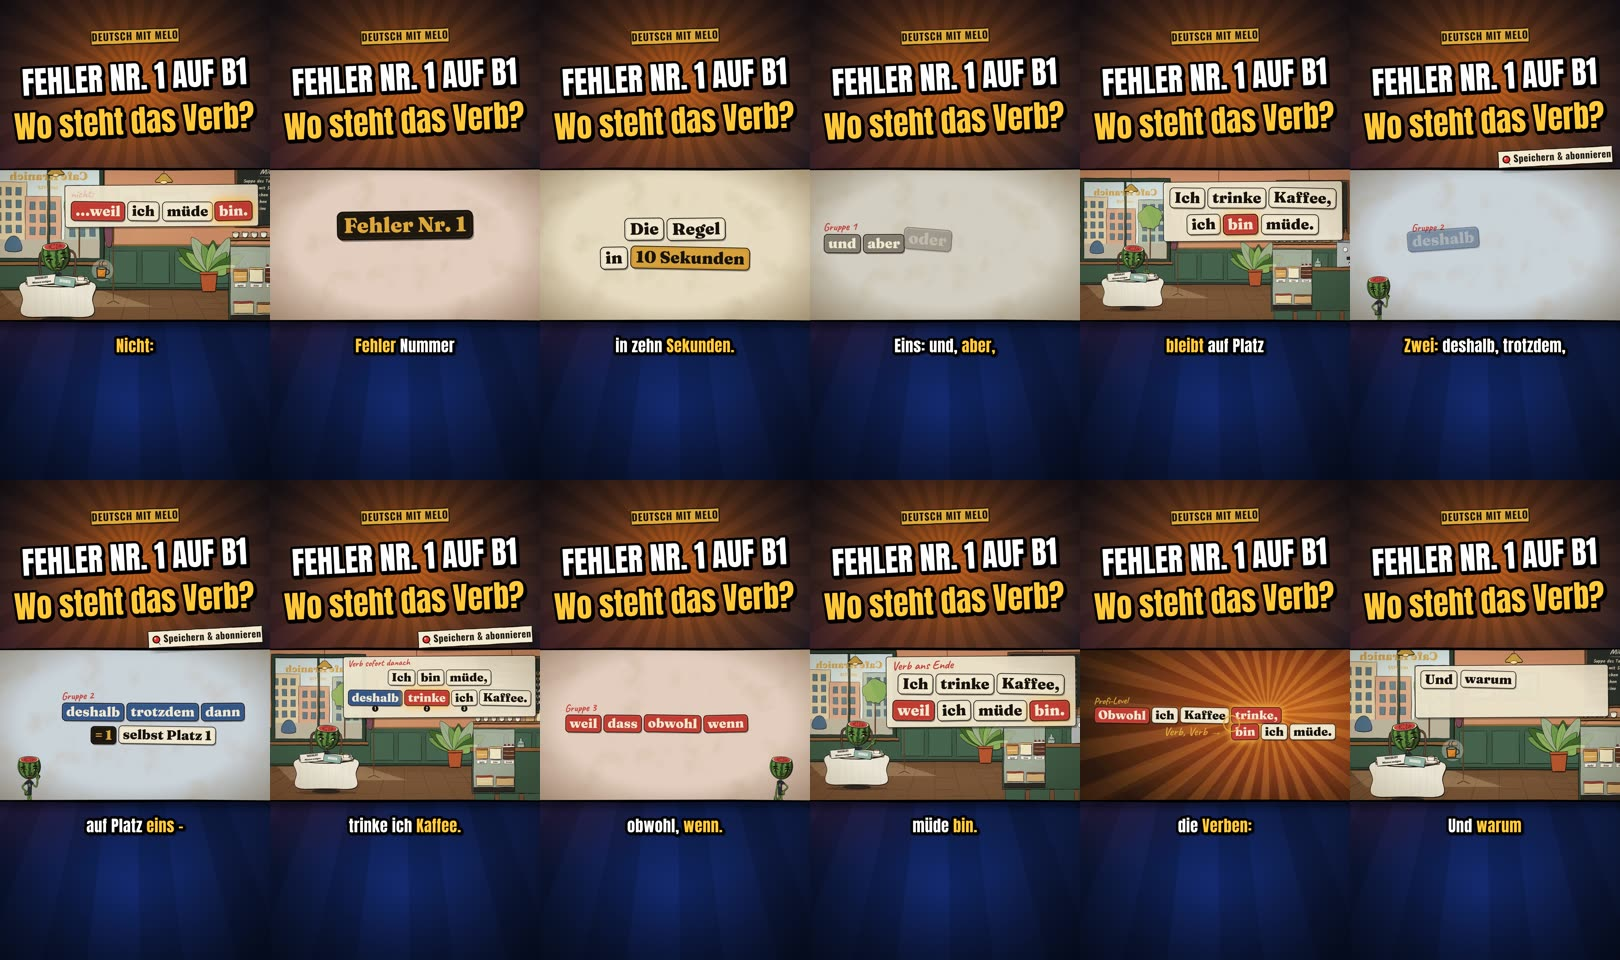
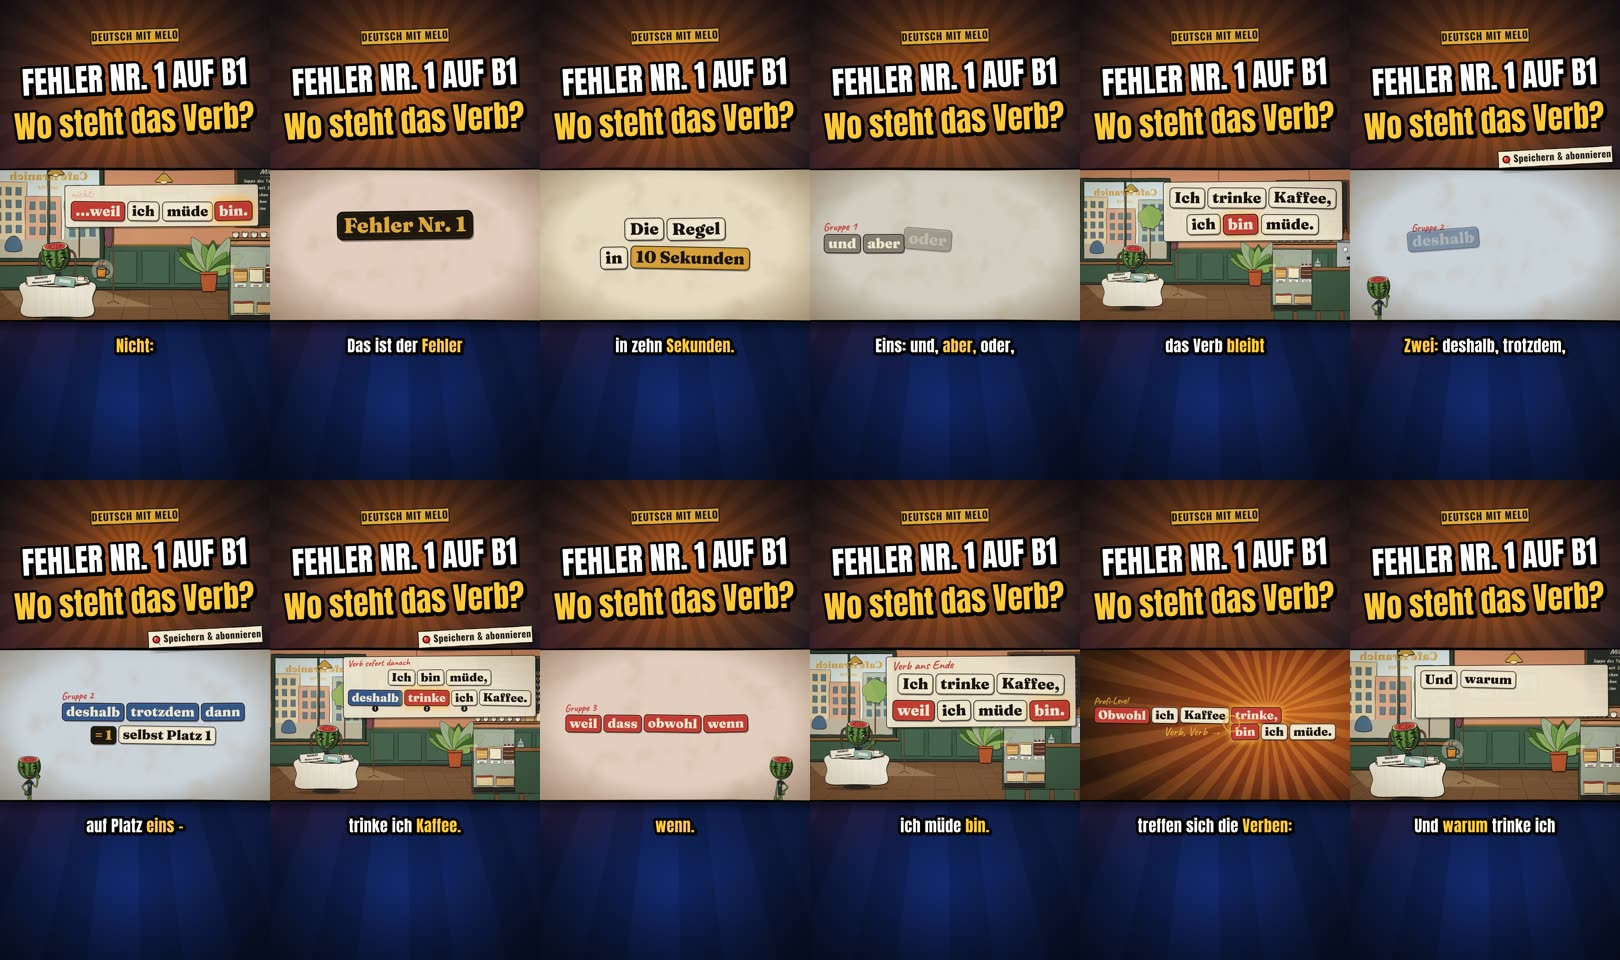
Loop Short „Wo steht das Verb?“: render, cover, meta; cards engine + make-short loop/sticker options
Claude-Session: https://claude.ai/code/session_01PmrnuMV8vDh6fYoKG3XG6d

diff --git a/docs/PIPELINE.md b/docs/PIPELINE.md
@@ -113,6 +113,9 @@ The owner rejected the static classroom look. **Goal: short-form retention in a 
 | `[[say who=<castId\|melo> text="…"]]` | speech bubble from a character (in scenes). The bubble appears on the word timing; the speaker's mouth moves while the narrator speaks that quote. |
 | `[[prop id=.. name=<iconOrPropName> at=<slot\|x,y> anim=<pop\|drop\|wiggle>]]` | put a prop/icon into the current shot |
 | `[[fx name=<shake\|flash\|zoom-punch\|sweat\|steam\|hearts\|question-marks\|sparkle\|record-scratch>]]` | small comedic effects |
+| `[[shot type=cards bg=<paper\|grey\|blue\|red\|green\|dark\|BGC name> melo=…]]` | full-frame word-card shot (tinted paper or dark rays); content = `[[cards]]` strips |
+| `[[cards id=.. text="…" size=112 x=.. y=.. label="…" sync=words in=none mark=<wrong\|right\|none> stair=1 join="Verb, Verb" gap=0.42 maxw=..]]` | **Word cards / sentence strip** (any shot, screen space; paper sheet behind it in scenes). Rows split by ` \| `, cards by spaces: `*bin*` = VERB (red, glowing), `red:weil` (`grey:` `blue:` `green:` `ink:` `mustard:`) = coloured card, `!=_0` = ink badge, `#w` = accent card, `___` = empty slot, `_` = space inside a card, `ich@1` = position number, `ich~a` = identity key, `a+b` = cards touch. **Same id again = new state**: cards keep identity and slide, new ones drop in, gone ones fade, a verb card that changes place **jumps** in an arc (cards it crosses duck). `sync=words` pops each new card when its word is spoken; `in=none` = complete at the shot start (loop first frame); `mark` = red strike + ✗ / green tick; `stair=1` starts each row under the previous row's last card (+ `join` label: the verbs meet). Unset args inherit from the previous state. No `]` inside cue args. Example: `episodes/s01-verb-springt/script.md`. |
+| shot arg `cam=static zoom=1.28 cx=.. cy=..` | locked-off framing without drift (identical first/last frame for loops). Also: `[[prop … anim=none]]` = prop already in place at the shot start; `[[melo]]` cues on the first word hold from frame 0 |
 `draw`, `strike`, `tick`, `highlight`, `note`, `quiz`, `reveal`, `pause`, `voice`, `melo` cues keep working inside any shot (they target the current shot's content area).
 
 ## Supporting cast (fruit-headed people, same ink style as Melo; generator `engine/cast/cast.js`)

diff --git a/shorts/README.md b/shorts/README.md
@@ -37,6 +37,8 @@ Engine renders are cached per time range in `build/seg-<from>-<to>.mp4`, so chan
 | `hook` | 2 title lines over the video: white line, yellow line |
 | `tag` | small channel tag above the title (default `DEUTSCH MIT MELO`) |
 | `endcard` | `{line1, line2, sub, click}` defaults „MEHR DAVON?“ / „ABONNIEREN!“ / „Ganzes Video auf dem Kanal“, cursor click at 1.75 s |
+| `loop` | `true` = loop Short: hook title static from frame 1 (no pop-in), no audio fade-out; use with no `cta` (→ no end card). Example `shorts/s01-verb-springt/` |
+| `sticker` | `{text, from, to, x, y, rot, size}` small paper sticker with a drawn push-pin (e.g. „Speichern & abonnieren“), fades in/out between `from`–`to` s; default x/y = right end above the video panel |
 | `cover` | `{headline, wrong, right, cast, castExpr, castPose, meloExpr, badge}` – `cast` is an id from `engine/cast/cast.js` (kollegin, schwiegermutter, kellner, kumpel, mitbewohnerin, kind, chefin, oma, arzt, moderator) |
 | `pad` | seconds of air around each segment (0.15) |
 | `subtitle_max_words`, `subtitle_highlight` | 4, `#FFC83A` |
